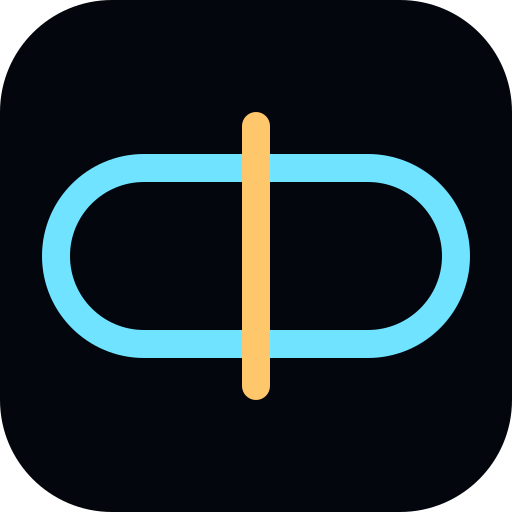
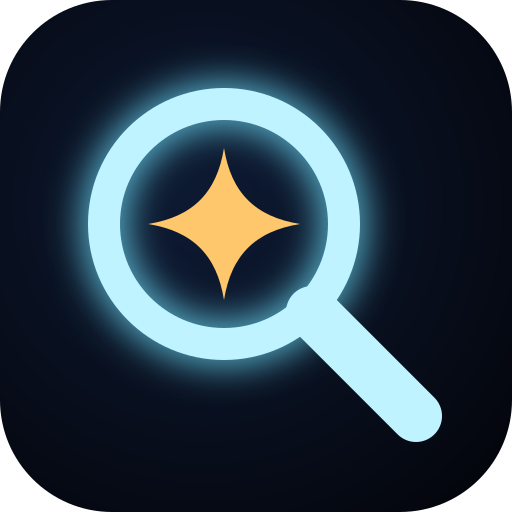
feat: new brand mark, a magnifier with a gold AI spark
One BrandMark component replaces the four inline copies (navbar, footer, auth
card, login), with useId so its gradient ids stay unique. favicon.svg is the same
drawing; favicon, app icons and the email mark are rebuilt from it.

diff --git a/src/components/BrandMark.tsx b/src/components/BrandMark.tsx
@@ -1,0 +1,33 @@
+import { useId } from "react";
+
+/**
+ * The Learn AEO mark: a magnifier with a gold AI spark in the lens, on navy. The same drawing as
+ * public/favicon.svg (which scripts/dev/build-icons.mjs turns into the favicon and app icons).
+ * useId keeps the gradient and glow ids unique when the mark appears twice on a page (navbar + footer).
+ */
+export default function BrandMark({ className }: { className?: string }) {
+  const id = useId();
+  const glow = `${id}-glow`;
+  const bg = `${id}-bg`;
+  return (
+    <svg aria-hidden="true" viewBox="0 0 64 64" className={className}>
+      <defs>
+        <filter id={glow} x="-40%" y="-40%" width="180%" height="180%">
+          <feGaussianBlur stdDeviation="2.4" />
+        </filter>
+        <radialGradient id={bg} cx="40%" cy="40%" r="75%">
+          <stop offset="0" stopColor="#0d1a33" />
+          <stop offset="1" stopColor="#04060d" />
+        </radialGradient>
+      </defs>
+      <rect width="64" height="64" rx="14" fill={`url(#${bg})`} />
+      <circle cx="28" cy="28" r="15" fill="none" stroke="#6fe3ff" strokeWidth="5" filter={`url(#${glow})`} opacity="0.85" />
+      <circle cx="28" cy="28" r="15" fill="none" stroke="#bff3ff" strokeWidth="4" />
+      <path d="M39 39 52 52" stroke="#bff3ff" strokeWidth="6.5" strokeLinecap="round" />
+      <path
+        d="M28 18.5c.9 5.6 3.9 8.6 9.5 9.5-5.6.9-8.6 3.9-9.5 9.5-.9-5.6-3.9-8.6-9.5-9.5 5.6-.9 8.6-3.9 9.5-9.5Z"
+        fill="#ffc76b"
+      />
+    </svg>
+  );
+}

diff --git a/src/components/Navbar.tsx b/src/components/Navbar.tsx
@@ -7,6 +7,7 @@ import { usePathname } from "next/navigation";
 import ThemeToggle from "./ThemeToggle";
 import { SITE } from "@/lib/site";
 import { useAuthModal } from "@/components/AuthModal";
+import BrandMark from "@/components/BrandMark";
 
 export default function Navbar() {
   const { data: session } = useSession();
@@ -46,11 +47,7 @@ export default function Navbar() {
           {/* Logo */}
           <Link href="/" className="flex items-center gap-2 md:gap-3 group min-w-0 shrink-0">
             {/* The favicon motif: a search bar split by a gold seam */}
-            <svg aria-hidden="true" viewBox="0 0 64 64" className="w-8 h-8 md:w-9 md:h-9 transition-transform duration-300 group-hover:scale-110">
-              <rect width="64" height="64" rx="14" fill="#04060d" />
-              <rect x="7" y="21" width="50" height="22" rx="11" fill="none" stroke="#6fe3ff" strokeWidth="3.5" />
-              <rect x="30.25" y="14" width="3.5" height="36" rx="1.75" fill="#ffc76b" />
-            </svg>
+            <BrandMark className="w-8 h-8 md:w-9 md:h-9 transition-transform duration-300 group-hover:scale-110" />
             <span className="font-display text-2xl md:text-3xl lg:text-2xl xl:text-3xl tracking-wide text-sand-100 group-hover:text-cyan-400 transition-colors truncate">
               {SITE.name}
             </span>

diff --git a/src/components/AuthCard.tsx b/src/components/AuthCard.tsx
@@ -10,6 +10,7 @@ import Price from "@/components/Price";
 import { PLANS, planById, planPeriodLabel } from "@/lib/plans";
 import { planIdFromCheckoutPath } from "@/lib/checkout-return";
 import { useFreeCourseGuest } from "@/components/useFreeCourseGuest";
+import BrandMark from "@/components/BrandMark";
 
 type CardState = "initial" | "checking" | "choice" | "check-email";
 export type AuthMode = "signup" | "signin";
@@ -203,11 +204,7 @@ export default function AuthCard({
       {/* Logo */}
       <div className="text-center mb-8">
         <Link href="/" className="inline-flex items-center gap-3 mb-6">
-          <svg aria-hidden="true" viewBox="0 0 64 64" className="w-10 h-10">
-            <rect width="64" height="64" rx="14" fill="#04060d" />
-            <rect x="7" y="21" width="50" height="22" rx="11" fill="none" stroke="#6fe3ff" strokeWidth="3.5" />
-            <rect x="30.25" y="14" width="3.5" height="36" rx="1.75" fill="#ffc76b" />
-          </svg>
+          <BrandMark className="w-10 h-10" />
           <span className="font-display text-2xl font-semibold text-gold-400">
             Learn AEO
           </span>

diff --git a/src/app/login/LoginContent.tsx b/src/app/login/LoginContent.tsx
@@ -7,6 +7,7 @@ import { trackEvent } from "@/lib/analytics";
 import { useRouter, useSearchParams } from "next/navigation";
 import { motion } from "framer-motion";
 import Link from "next/link";
+import BrandMark from "@/components/BrandMark";
 
 type PageState = "initial" | "checking" | "choice" | "check-email";
 
@@ -129,11 +130,7 @@ function LoginInner() {
           {/* Logo */}
           <div className="text-center mb-8">
             <Link href="/" className="inline-flex items-center gap-3 mb-6">
-              <svg aria-hidden="true" viewBox="0 0 64 64" className="w-10 h-10">
-                <rect width="64" height="64" rx="14" fill="#04060d" />
-                <rect x="7" y="21" width="50" height="22" rx="11" fill="none" stroke="#6fe3ff" strokeWidth="3.5" />
-                <rect x="30.25" y="14" width="3.5" height="36" rx="1.75" fill="#ffc76b" />
-              </svg>
+              <BrandMark className="w-10 h-10" />
               <span className="font-display text-2xl font-semibold text-gold-400">
                 Learn AEO
               </span>

diff --git a/src/components/Footer.tsx b/src/components/Footer.tsx
@@ -1,5 +1,6 @@
 import Link from "next/link";
 import { SITE } from "@/lib/site";
+import BrandMark from "@/components/BrandMark";
 
 // Footer links: only pages that exist on the Learn AEO site.
 const LINKS = [
@@ -20,11 +21,7 @@ export default function Footer() {
       <div className="relative z-10 max-w-7xl mx-auto px-6 lg:px-8 py-12">
         <div className="flex flex-col gap-8 md:flex-row md:items-center md:justify-between">
           <Link href="/" className="flex items-center gap-3">
-            <svg aria-hidden="true" viewBox="0 0 64 64" className="w-9 h-9">
-              <rect width="64" height="64" rx="14" fill="#04060d" />
-              <rect x="7" y="21" width="50" height="22" rx="11" fill="none" stroke="#6fe3ff" strokeWidth="3.5" />
-              <rect x="30.25" y="14" width="3.5" height="36" rx="1.75" fill="#ffc76b" />
-            </svg>
+            <BrandMark className="w-9 h-9" />
             <span className="font-display text-2xl text-sand-100">{SITE.name}</span>
           </Link>
           <nav aria-label="Footer">
